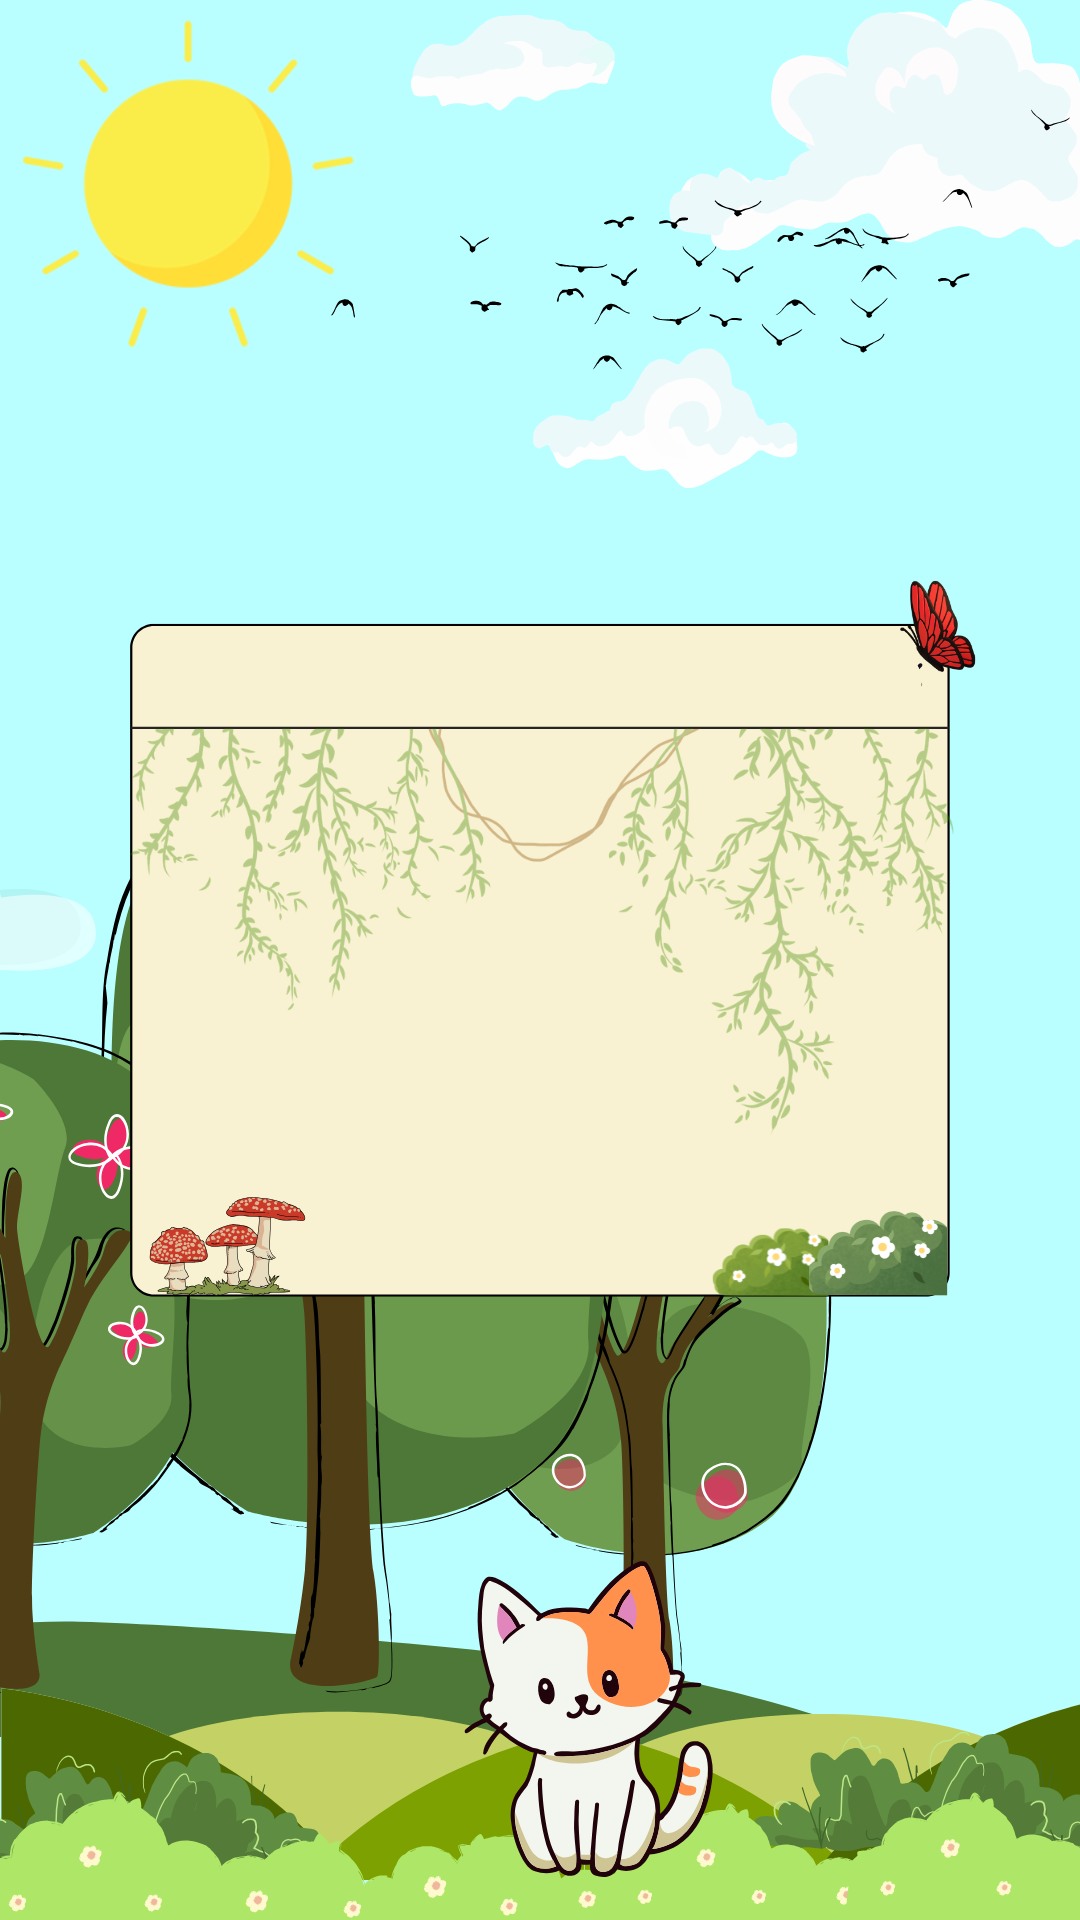
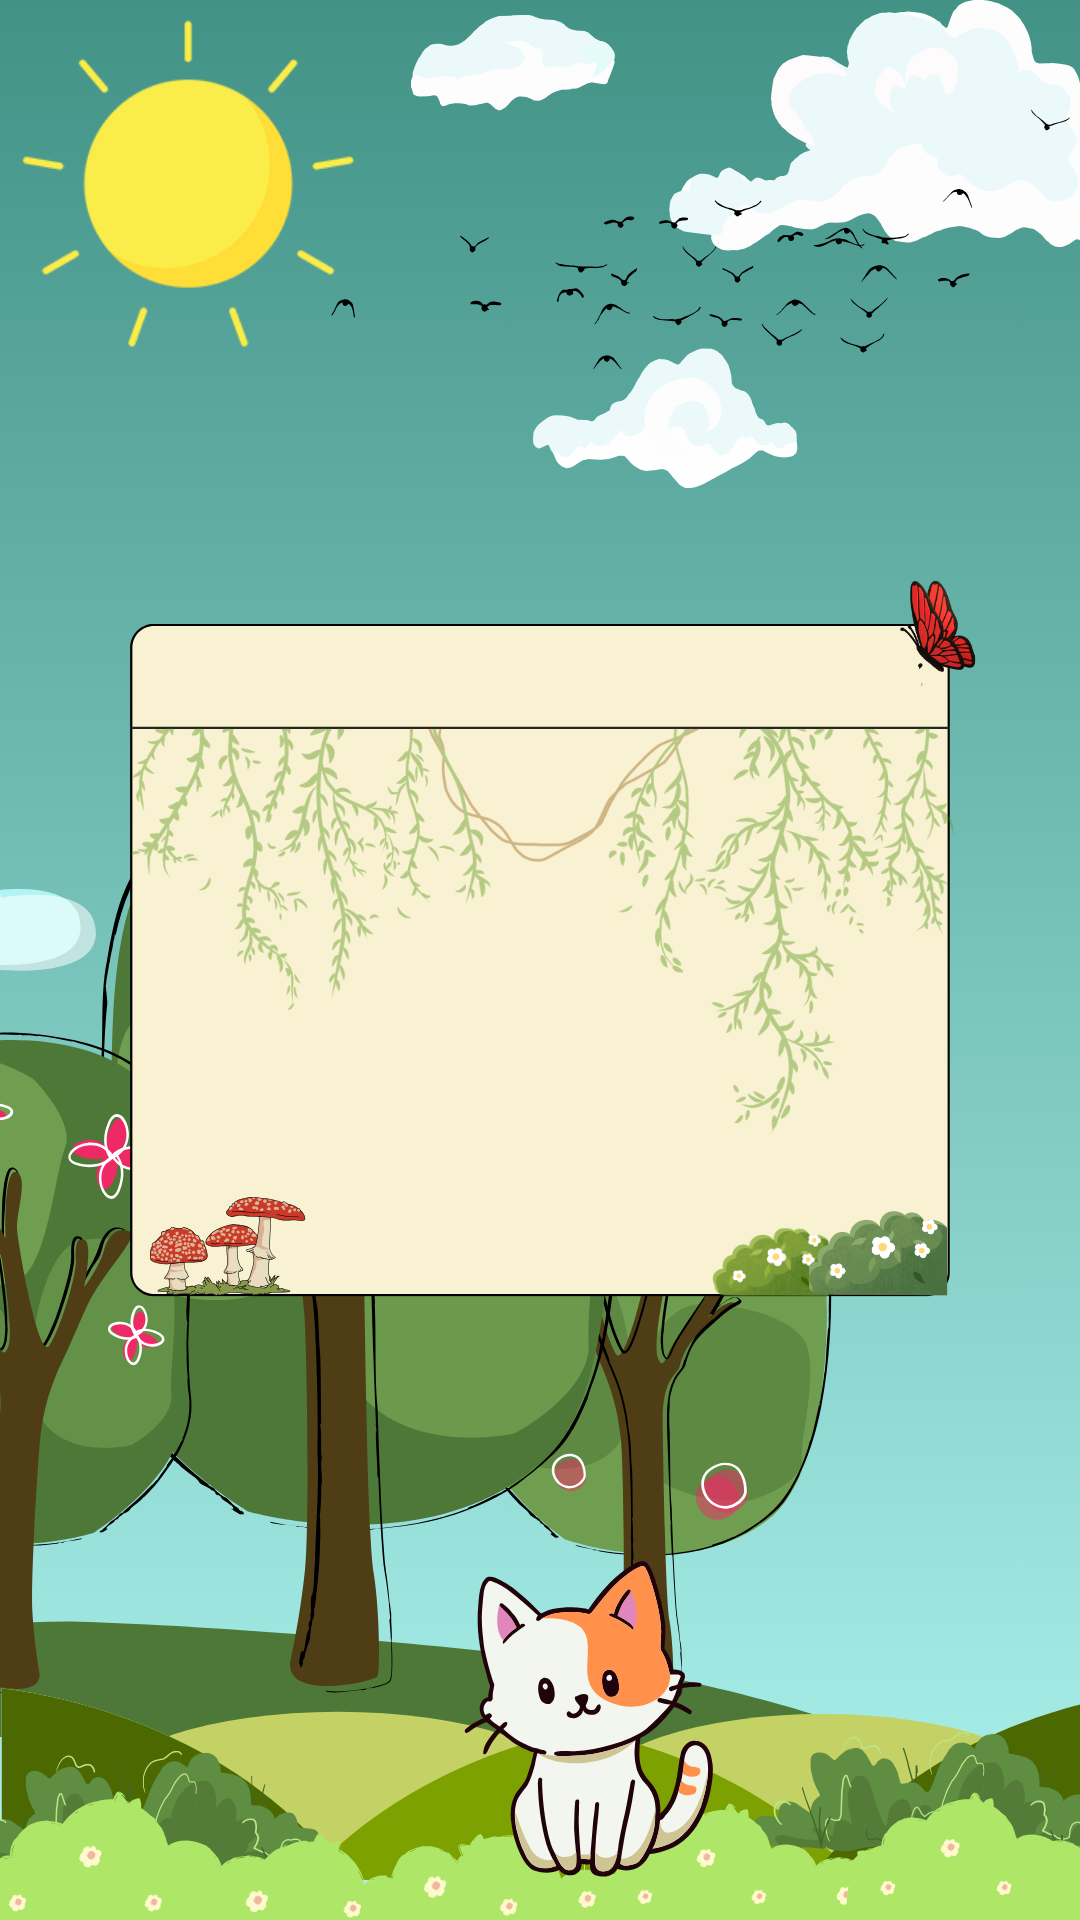
Add mobile cats page background

diff --git a/static/css/cats.css b/static/css/cats.css
@@ -155,3 +155,13 @@ body{
     }
     
 }
+@media (max-width:768px){
+
+    body{
+        background-image:url("../images/catbackground_mobile.png");
+        background-size:cover;
+        background-position:center;
+        background-repeat:no-repeat;
+    }
+
+}